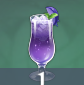
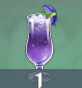
自动购买商品 3.5.9 (#3607)
* Add files via upload

* Add files via upload

* Add files via upload

diff --git a/repo/js/自动购买商品/README.md b/repo/js/自动购买商品/README.md
@@ -265,6 +265,11 @@ A: 游戏内的刷新时间是**每天凌晨4点**。脚本会考虑这个时间
 ## 📅 更新日志 
 <details>
 
+### v3.5.9
+- **优化**
+    - 调整商人`蒙德-蒙德城-天使的馈赠-查尔斯`路径
+    - 调整商品`冰钩钩果汁`图片
+    
 ### v3.5.8
 - **新增**：适配ABGI进度显示日志，脚本运行过程中输出更详细的进度信息，方便追踪执行状态。
 - **优化**：修改「至冬-至冬堡-齐良诺夫」路线，避开角色彩蛋刷新位置，减少因NPC乱入导致的购买失败。
